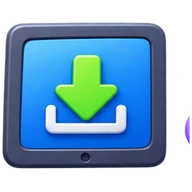
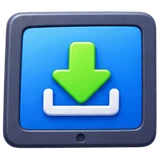
Entdecken: Kachelfarben passend zu den Symbolen, Symbole sauber ausgeschnitten
Claude-Session: https://claude.ai/code/session_015F4ypguKCiePf7SvTB76p6

diff --git a/stil.js b/stil.js
@@ -1222,8 +1222,8 @@ document.head.appendChild(c); })();
 /* ===== Entdecken: Dejans Glanz-Kacheln (img/grafik/entdecken/kachel-01..18.webp, Kopf kopf.webp, Neun-Teile-Bilder) ===== */
 (function(){ if(document.getElementById("ep-entdecken-kacheln-css")) return;
 const c = document.createElement("style"); c.id = "ep-entdecken-kacheln-css"; const G = "img/grafik/entdecken/";
-const K = {regionen:11, wiederholen:2, truhe:3, karte:4, familie:5, album:6, sprachen:7, garderobe:8, abenteuer:9, mathe:10,
-  spielwelt:1, feste:12, forscher:13, sound:14, hilfen:15, eltern:16, offline:17, sprache:18};
+const K = {regionen:11, wiederholen:5, truhe:1, karte:11, familie:9, album:2, sprachen:16, garderobe:8, abenteuer:7, mathe:13,
+  spielwelt:6, feste:4, forscher:8, sound:9, hilfen:2, eltern:15, offline:5, sprache:12};  /* Farben so gewählt, dass Dejans Welt-Symbol gut sichtbar ist */
 const nr = n => String(n).padStart(2, "0");
 c.textContent = `
 html body #app .x-kacheln > .x-kachel.x-kachel{background:none!important;box-shadow:none!important;border:0 solid transparent!important;border-radius:0!important;
@@ -1272,7 +1272,7 @@ c.textContent = css; document.head.appendChild(c); })();
 /* ===== Entdecken: Dejans Welt-Symbole (img/grafik/welten/<id>.webp) statt Emoji, auf den Kacheln und im Kopf jeder Welt ===== */
 (function(){
 const IDS = ["wiederholen","truhe","karte","familie","album","sprachen","abenteuer","mathe","spielwelt","feste","forscher","sound","hilfen","eltern","offline","sprache"];
-const bild = id => `<img class="ep-welt-ic" src="img/grafik/welten/${id}.webp?v=1" alt="" draggable="false">`;
+const bild = id => `<img class="ep-welt-ic" src="img/grafik/welten/${id}.webp?v=2" alt="" draggable="false">`;
 const EMO = /^\s*\p{Extended_Pictographic}[\p{Extended_Pictographic}]*\s*$/u;
 function setzen(){
   try{
@@ -1297,7 +1297,7 @@ c.textContent = `html body #app .ep-welt-hat{background:none!important;box-shado
 html body #app .ep-welt-hat > img.ep-welt-ic{position:static!important;inset:auto!important;transform:none!important;margin:0!important;max-height:none!important;opacity:1!important;visibility:visible!important}
 html body #app .ep-welt-ic{width:64px;height:64px;object-fit:contain;display:block;filter:drop-shadow(0 4px 6px rgba(0,0,0,.25));-webkit-user-drag:none;user-select:none}
 html body #app .x-kacheln .ep-welt-hat{width:auto!important;height:auto!important;min-width:0!important}
-html body #app .x-kacheln .ep-welt-ic{width:58px;height:58px}
+html body #app .x-kacheln .ep-welt-ic{width:58px;height:58px;filter:drop-shadow(0 0 5px rgba(255,255,255,.75)) drop-shadow(0 3px 4px rgba(0,0,0,.3))}
 html body #app .ep-welt-hat{width:auto!important;height:auto!important;transform:none!important}
 html body #app :is(.x-kopf,.xk-kopf,.fq-kopf,.alb-kopf,.xa-kopf,.xmt-kopf,.hlf-kopf) .ep-welt-hat{width:76px!important;height:76px!important;min-width:76px!important;flex:none!important;overflow:visible!important}
 @media (max-width:700px){html body #app :is(.x-kopf,.xk-kopf,.fq-kopf,.alb-kopf,.xa-kopf,.xmt-kopf,.hlf-kopf) .ep-welt-hat{width:58px!important;height:58px!important;min-width:58px!important}}

diff --git a/index.html b/index.html
@@ -74,7 +74,7 @@ html.ep-boot #epBoot{display:flex;position:fixed;inset:0;z-index:99999;flex-dire
 <link rel="preload" as="image" href="img/kinder.webp">
 <script>/* Versionsprüfung: Ist diese Seite älter als die veröffentlichte Version (alter Speicher, Browser-Cache,
    Homescreen-App), alles Alte löschen und einmal frisch laden. Höchstens einmal pro 10 Minuten. */
-window.EP_BUILD="ep-2026-11-01-13";
+window.EP_BUILD="ep-2026-11-01-14";
 (function(){ try{
   if(window.claude || window.EP_NATIV || !/^https?:$/.test(location.protocol)){ window.__epVer="ok"; return; }   /* App (alles eingebaut) und Vorschau: keine Prüfung */
   /* Prüft, ob auf dem Server eine neuere Version liegt. Läuft beim Laden UND jedes Mal, wenn die Seite

diff --git a/sw.js b/sw.js
@@ -2,7 +2,7 @@
    Sorgt für schnelle Wiederholungsbesuche und Offline-Nutzung.
    Bei jeder Änderung an der App-Hülle VERSION hochzählen, damit alte Caches gelöscht werden. */
 
-const VERSION = "ep-2026-11-01-13";
+const VERSION = "ep-2026-11-01-14";
 const CACHE_HUELLE = VERSION + "-huelle";   // App-Hülle, Code, Daten
 // Bilder in einem festen Speicher: überlebt Updates (nur bilder/, img/, flags/), wird täglich still geprüft
 const CACHE_BILDER = "ep-bilder";

diff --git a/CLAUDE.md b/CLAUDE.md
@@ -33,6 +33,7 @@ _(leer)_
 - 21.10. 12:35, Sitzung «Hauptseite»: Danke! PR #11 und #12 sind bei mir übernommen. Ich lasse die Qeels-Blöcke in `index.html` und `qeels/` dir und melde mich hier, bevor ich dort etwas ändere.
 
 ## Erledigt (neueste oben)
+- 01.11. Sitzung «Hauptseite»: Entdecken: Kachelfarben neu zugeordnet, damit jedes Welt-Symbol gut sichtbar ist (Tabelle `K` im Block «Entdecken: Dejans Glanz-Kacheln», `stil.js`), heller Schein hinter den Symbolen. 16 Welt-Symbole sauber neu ausgeschnitten (keine Striche mehr am Rand), `?v=2`. Version ep-2026-11-01-14.
 - 01.11. Sitzung «Hauptseite»: Schweizer Karte: Wappen (`img/wp/<K>.webp`) neben jedem Kantonskürzel auf der Karte (SVG `<image class="xk-lw">`) und auf den Kantons-Knöpfen (`.xk-chip-w`), `karte.js`. Version ep-2026-11-01-13.
 - 01.11. Sitzung «Hauptseite»: Letzte 40 Symbole von Dejan (`img/grafik/diverse/`: Familie, Spiel, Hilfen, Eltern-Ecke), Liste `E` im Block «übrige Emoji» in `stil.js` ergänzt. Damit zeigt keine Entdecken-Seite mehr Emoji (ausser in Auswahllisten `<select>`). Alle Symbole neu ausgeschnitten (Löcher in Ringen und Pfeilen jetzt durchsichtig), Bilder mit `?v=2`. Version ep-2026-11-01-12.
 - 01.11. Sitzung «Hauptseite»: Weitere 84 Symbole von Dejan: alle 71 Forscher-Aufträge, Medaillen, Reiter (`img/grafik/forscher/`), dazu `img/grafik/diverse/` (Jahreszeiten, Schloss, Bär, Sanduhr, Offline-Symbole, Croissant, Kaffee, Lupe, Lautsprecher). Neuer Block «übrige Emoji durch Dejans Symbole ersetzen» am Ende von `stil.js`: ersetzt in den Welten (`S.screen` x-…, ausser x-karte) Emoji in Textknoten nach Liste `E` (Bücher mit `img/qeels-icons/buecher/`), Jahreszeiten nur in `.xf-saison`. Liste in `EP_GI` nachgeführt. Version ep-2026-11-01-11.
